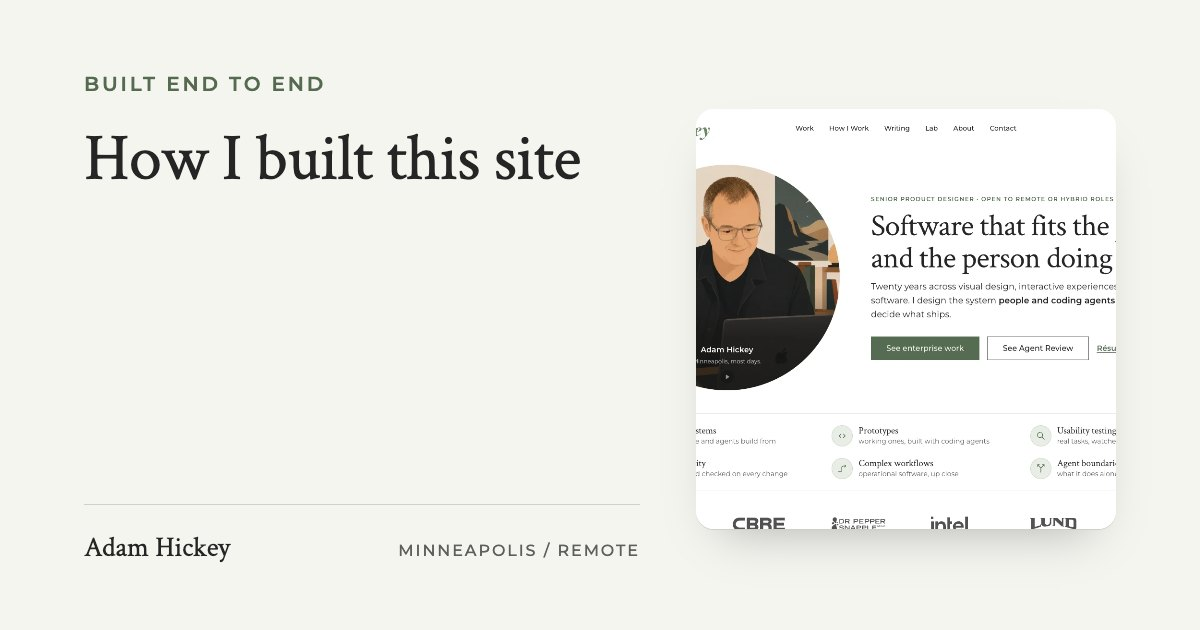
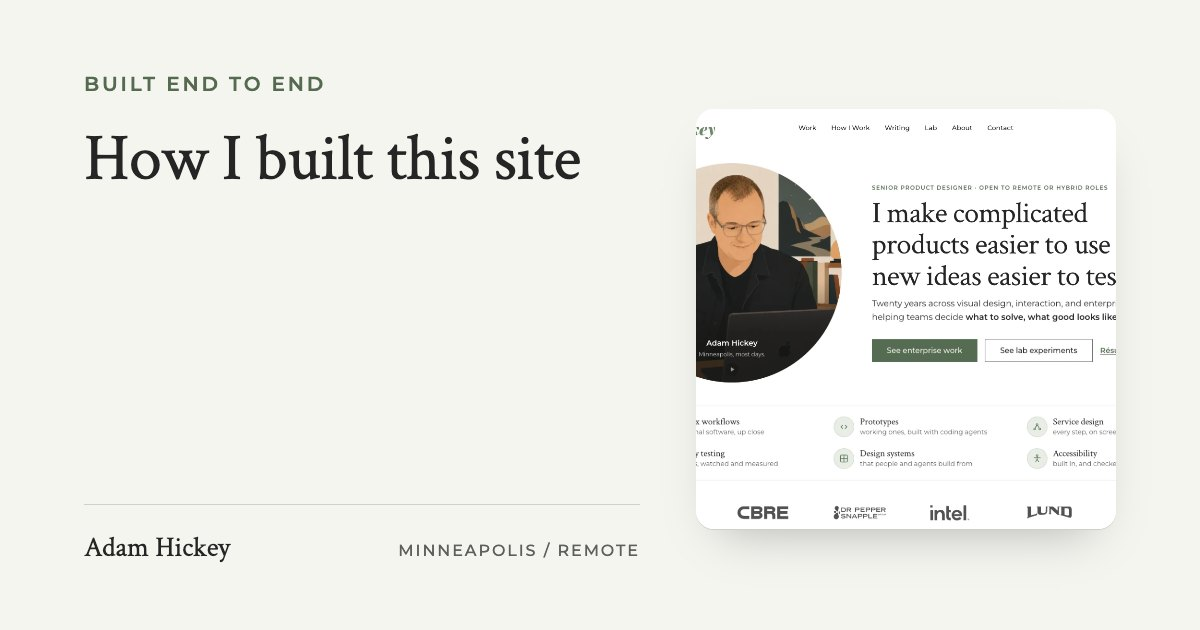
Small fixes from the design audit: a current capture, the strip on a phone, one link wording
- How I built this site: the homepage capture is retaken at 1440 into
  1400x875 (it still showed "Software that fits the job and the person
  doing it."), its alt text says what is there now, ?v=16; the index and
  this-site share cards are rerendered from it, ?v=13.
- Homepage: the six capabilities stand two across on a phone, the mark
  above its label, where they were one column of six rows; 445px at 390
  where it was about 610, every gloss kept. style.css's buster goes to
  20261030v on all 26 pages.
- Homepage: the two lab cards' links read "Read the case study", as the
  three enterprise cards do, with the project's name kept for screen
  readers in a visually hidden span.

The audit's fourth item, body text at 16px on some pages and 18 on
others, was a mismeasurement: every reading paragraph is 18px, and 16px is
the dash list's own size on every page.

diff --git a/index.html b/index.html
@@ -30,7 +30,7 @@
        "How a change reaches the live site". -->
   <link rel="canonical" href="https://adamhickey.com/" />
   <meta property="og:url" content="https://adamhickey.com/" />
-  <meta property="og:image" content="https://adamhickey.com/img/og/index.jpg?v=12" />
+  <meta property="og:image" content="https://adamhickey.com/img/og/index.jpg?v=13" />
   <meta property="og:image:width" content="1200" />
   <meta property="og:image:height" content="630" />
   <meta name="twitter:card" content="summary_large_image" />
@@ -51,7 +51,7 @@
           "jobTitle": "Senior Product Designer",
           "description": "Senior product designer for complex enterprise software, design systems, and agentic workflows, who builds what he designs, in Minneapolis.",
           "url": "https://adamhickey.com/",
-          "image": "https://adamhickey.com/img/og/index.jpg?v=12",
+          "image": "https://adamhickey.com/img/og/index.jpg?v=13",
           "email": "mailto:adam@adamhickey.com",
           "address": {
             "@type": "PostalAddress",
@@ -86,7 +86,7 @@
           "name": "Adam Hickey — Product Design",
           "description": "Adam Hickey's independent product design practice in Minneapolis, for complex enterprise software: design systems, modernizing legacy products, and AI product prototypes. Twenty years inside enterprise platforms, design systems, and products that outgrew their original shape.",
           "url": "https://adamhickey.com/",
-          "image": "https://adamhickey.com/img/og/index.jpg?v=12",
+          "image": "https://adamhickey.com/img/og/index.jpg?v=13",
           "founder": {
             "@id": "https://adamhickey.com/#adam"
           },
@@ -123,7 +123,7 @@
   <link rel="stylesheet" href="color.css?v=12" />
   <link rel="stylesheet" href="shell.css?v=7" />
   <link rel="stylesheet" href="type.css?v=8" />
-  <link rel="stylesheet" href="style.css?v=20261030u" />
+  <link rel="stylesheet" href="style.css?v=20261030v" />
   <link rel="stylesheet" href="site-nav.css?v=20261030b" />
   <link rel="stylesheet" href="app-device.css?v=1" />
   <link rel="stylesheet" href="thumb-loop.css?v=11" />
@@ -1048,7 +1048,7 @@
                 <span class="tag">Working prototype</span>
               </div>
               <p class="product-actions">
-                <a class="case-go" href="lab/inspiration-to-aisle.html">Read The Shortlist case study<svg viewBox="0 0 24 24" fill="none" stroke="currentColor" stroke-width="1.6" stroke-linecap="round" stroke-linejoin="round" aria-hidden="true" focusable="false"><path d="M5 12h14"/><path d="m12 5 7 7-7 7"/></svg></a>
+                <a class="case-go" href="lab/inspiration-to-aisle.html">Read the case study<span class="visually-hidden">: The Shortlist</span><svg viewBox="0 0 24 24" fill="none" stroke="currentColor" stroke-width="1.6" stroke-linecap="round" stroke-linejoin="round" aria-hidden="true" focusable="false"><path d="M5 12h14"/><path d="m12 5 7 7-7 7"/></svg></a>
               </p>
             </div>
             <div class="case-app">
@@ -1067,7 +1067,7 @@
                 <span class="tag">Working prototype</span>
               </div>
               <p class="product-actions">
-                <a class="case-go" href="lab/agent-review.html">Read the Agent Review case study<svg viewBox="0 0 24 24" fill="none" stroke="currentColor" stroke-width="1.6" stroke-linecap="round" stroke-linejoin="round" aria-hidden="true" focusable="false"><path d="M5 12h14"/><path d="m12 5 7 7-7 7"/></svg></a>
+                <a class="case-go" href="lab/agent-review.html">Read the case study<span class="visually-hidden">: Agent Review</span><svg viewBox="0 0 24 24" fill="none" stroke="currentColor" stroke-width="1.6" stroke-linecap="round" stroke-linejoin="round" aria-hidden="true" focusable="false"><path d="M5 12h14"/><path d="m12 5 7 7-7 7"/></svg></a>
               </p>
             </div>
             <div class="case-app">

diff --git a/case-study/this-site.html b/case-study/this-site.html
@@ -19,7 +19,7 @@
   <meta property="og:url" content="https://adamhickey.com/case-study/this-site.html" />
   <meta property="og:title" content="How I built this site | Adam Hickey" />
   <meta property="og:description" content="How adamhickey.com is built: twenty-five pages of plain HTML with no framework and no build step, three token files under four normative specs, and twelve checks that measure the rendered page before anything ships." />
-  <meta property="og:image" content="https://adamhickey.com/img/og/this-site.jpg?v=12" />
+  <meta property="og:image" content="https://adamhickey.com/img/og/this-site.jpg?v=13" />
   <meta property="og:image:width" content="1200" />
   <meta property="og:image:height" content="630" />
   <meta name="twitter:card" content="summary_large_image" />
@@ -40,7 +40,7 @@
           "description": "A build write-up for adamhickey.com: twenty-five pages of plain HTML with no framework and no build step, three token files under four normative specs, and twelve checks that measure the rendered page before anything ships.",
           "url": "https://adamhickey.com/case-study/this-site.html",
           "mainEntityOfPage": "https://adamhickey.com/case-study/this-site.html",
-          "image": "https://adamhickey.com/img/og/this-site.jpg?v=12",
+          "image": "https://adamhickey.com/img/og/this-site.jpg?v=13",
           "datePublished": "2026-09-17",
           "dateModified": "2026-10-30",
           "author": {
@@ -94,7 +94,7 @@
   <link rel="stylesheet" href="../color.css?v=12" />
   <link rel="stylesheet" href="../shell.css?v=7" />
   <link rel="stylesheet" href="../type.css?v=8" />
-  <link rel="stylesheet" href="../style.css?v=20261030u" />
+  <link rel="stylesheet" href="../style.css?v=20261030v" />
   <link rel="stylesheet" href="../site-nav.css?v=20261030b" />
   <!-- The chapters arrive as they are read. See reveal.css for why this is
        its own pair of files rather than style.css's .reveal. -->
@@ -237,8 +237,8 @@
              sits one click away would be the one dishonest picture here. -->
         <figure class="build-shot">
           <div class="build-laptop"><div class="build-laptop-lid">
-              <img src="../img/site/this-site.webp?v=15" width="1400" height="875" fetchpriority="high" decoding="async"
-                   alt="The homepage of this site at laptop width: the wordmark and six section links across the top, the portrait in a circle on the left, and on the right the eyebrow Senior Product Designer &middot; Open to remote or hybrid roles over the title &ldquo;Software that fits the job and the person doing it.&rdquo;, a three-line dek beginning &ldquo;Twenty years across visual design, interactive experiences, and enterprise software.&rdquo;, a green See enterprise work button, an outlined See Agent Review button and a R&eacute;sum&eacute; link. Under the pair, six facts in two rows of three, each with a small line icon in a pale disc, among them Agent boundaries, and a row of six client wordmarks along the bottom." />
+              <img src="../img/site/this-site.webp?v=16" width="1400" height="875" fetchpriority="high" decoding="async"
+                   alt="The homepage of this site at laptop width: the wordmark and six section links across the top, the portrait in a circle on the left, and on the right the eyebrow Senior Product Designer &middot; Open to remote or hybrid roles over the title &ldquo;I make complicated products easier to use and new ideas easier to test.&rdquo;, a two-line dek beginning &ldquo;Twenty years across visual design, interaction, and enterprise software,&rdquo; a green See enterprise work button, an outlined See lab experiments button, and a R&eacute;sum&eacute; (PDF) link. Under them, six capabilities in two rows of three, each with a small line icon in a pale disc, and a row of six client wordmarks along the bottom." />
             </div></div>
         </figure>
 

diff --git a/style.css b/style.css
@@ -4356,6 +4356,24 @@ html.ah-lightbox-open body { overflow: hidden; }
      step to --space-3xl, which is 40, and the strip reads as its own thing
      again. */
   .logo-block { margin-top: var(--space-3xl); }
+  /* Two across on a phone, since 2026-10-30. One column of six rows ran a
+     whole screen at 390px before the wordmarks, the first thing under the
+     hero, and the design audit named it. Two columns halve that, and in a
+     column 160-odd pixels wide the mark goes above its label rather than
+     beside it, so the label keeps the width. Every gloss stays. */
+  .hero-proof {
+    grid-template-columns: repeat(2, minmax(0, 1fr));
+    column-gap: var(--space-lg);
+    row-gap: var(--space-xl);
+    padding: var(--space-xl) 0;
+  }
+  .hero-proof li {
+    flex-direction: column;
+    align-items: flex-start;
+    gap: var(--space-xs);
+    padding: 0;
+    border-top: 0;
+  }
 }
 /* Two and three columns. Open-ended again: #154 had to close the 640 range
    at 1023.98 because its lattice marked a row start with :nth-child(odd) at

diff --git a/prototype/dispatch-cockpit.html b/prototype/dispatch-cockpit.html
@@ -116,7 +116,7 @@
   <link rel="stylesheet" href="../color.css?v=12" />
   <link rel="stylesheet" href="../shell.css?v=7" />
   <link rel="stylesheet" href="../type.css?v=8" />
-  <link rel="stylesheet" href="../style.css?v=20261030u" />
+  <link rel="stylesheet" href="../style.css?v=20261030v" />
   <link rel="stylesheet" href="../site-nav.css?v=20261030b" />
   <!-- The chapters arrive as they are read. See reveal.css for why this is
        its own pair of files rather than style.css's .reveal. -->

diff --git a/case-study/door-county-found.html b/case-study/door-county-found.html
@@ -96,7 +96,7 @@
   <link rel="stylesheet" href="../color.css?v=12" />
   <link rel="stylesheet" href="../shell.css?v=7" />
   <link rel="stylesheet" href="../type.css?v=8" />
-  <link rel="stylesheet" href="../style.css?v=20261030u" />
+  <link rel="stylesheet" href="../style.css?v=20261030v" />
   <link rel="stylesheet" href="../site-nav.css?v=20261030b" />
   <!-- The chapters arrive as they are read. See reveal.css for why this is
        its own pair of files rather than style.css's .reveal. -->

diff --git a/case-study/faunaform.html b/case-study/faunaform.html
@@ -95,7 +95,7 @@
   <link rel="stylesheet" href="../color.css?v=12" />
   <link rel="stylesheet" href="../shell.css?v=7" />
   <link rel="stylesheet" href="../type.css?v=8" />
-  <link rel="stylesheet" href="../style.css?v=20261030u" />
+  <link rel="stylesheet" href="../style.css?v=20261030v" />
   <link rel="stylesheet" href="../site-nav.css?v=20261030b" />
   <!-- The chapters arrive as they are read. See reveal.css for why this is
        its own pair of files rather than style.css's .reveal. -->

diff --git a/case-study/lucy-learns.html b/case-study/lucy-learns.html
@@ -97,7 +97,7 @@
   <link rel="stylesheet" href="../color.css?v=12" />
   <link rel="stylesheet" href="../shell.css?v=7" />
   <link rel="stylesheet" href="../type.css?v=8" />
-  <link rel="stylesheet" href="../style.css?v=20261030u" />
+  <link rel="stylesheet" href="../style.css?v=20261030v" />
   <link rel="stylesheet" href="../site-nav.css?v=20261030b" />
   <!-- The chapters arrive as they are read. See reveal.css for why this is
        its own pair of files rather than style.css's .reveal. -->

diff --git a/lab/designing-motion.html b/lab/designing-motion.html
@@ -105,7 +105,7 @@
   <link rel="stylesheet" href="../color.css?v=12" />
   <link rel="stylesheet" href="../shell.css?v=7" />
   <link rel="stylesheet" href="../type.css?v=8" />
-  <link rel="stylesheet" href="../style.css?v=20261030u" />
+  <link rel="stylesheet" href="../style.css?v=20261030v" />
   <link rel="stylesheet" href="../site-nav.css?v=20261030b" />
   <script src="../site-nav.js?v=20260906a" defer></script>
   <!-- The header logo plays a one-shot reveal clip on load and fades out

diff --git a/writing/what-does-a-design-system-need-once-ai-is-in-the-product.html b/writing/what-does-a-design-system-need-once-ai-is-in-the-product.html
@@ -108,7 +108,7 @@
   <link rel="stylesheet" href="../color.css?v=12" />
   <link rel="stylesheet" href="../shell.css?v=7" />
   <link rel="stylesheet" href="../type.css?v=8" />
-  <link rel="stylesheet" href="../style.css?v=20261030u" />
+  <link rel="stylesheet" href="../style.css?v=20261030v" />
   <link rel="stylesheet" href="../design-psychology.css?v=9" />
   <link rel="stylesheet" href="../site-nav.css?v=20261030b" />
   <link rel="stylesheet" href="../read-aloud.css?v=7" />

diff --git a/writing/who-decides-when-software-can-act-on-its-own.html b/writing/who-decides-when-software-can-act-on-its-own.html
@@ -112,7 +112,7 @@
   <link rel="stylesheet" href="../color.css?v=12" />
   <link rel="stylesheet" href="../shell.css?v=7" />
   <link rel="stylesheet" href="../type.css?v=8" />
-  <link rel="stylesheet" href="../style.css?v=20261030u" />
+  <link rel="stylesheet" href="../style.css?v=20261030v" />
   <link rel="stylesheet" href="../design-psychology.css?v=9" />
   <link rel="stylesheet" href="../site-nav.css?v=20261030b" />
   <link rel="stylesheet" href="../read-aloud.css?v=7" />

diff --git a/case-study/while-were-here.html b/case-study/while-were-here.html
@@ -96,7 +96,7 @@
   <link rel="stylesheet" href="../color.css?v=12" />
   <link rel="stylesheet" href="../shell.css?v=7" />
   <link rel="stylesheet" href="../type.css?v=8" />
-  <link rel="stylesheet" href="../style.css?v=20261030u" />
+  <link rel="stylesheet" href="../style.css?v=20261030v" />
   <link rel="stylesheet" href="../site-nav.css?v=20261030b" />
   <link rel="stylesheet" href="../read-aloud.css?v=7" />
   <script src="../site-nav.js?v=20260906a" defer></script>

diff --git a/design-system/index.html b/design-system/index.html
@@ -85,7 +85,7 @@
   <link rel="stylesheet" href="../color.css?v=12" />
   <link rel="stylesheet" href="../shell.css?v=7" />
   <link rel="stylesheet" href="../type.css?v=8" />
-  <link rel="stylesheet" href="../style.css?v=20261030u" />
+  <link rel="stylesheet" href="../style.css?v=20261030v" />
   <link rel="stylesheet" href="../site-nav.css?v=20261030b" />
   <link rel="stylesheet" href="../case-study/case-cards.css?v=2" />
   <link rel="stylesheet" href="ds.css?v=45" />
